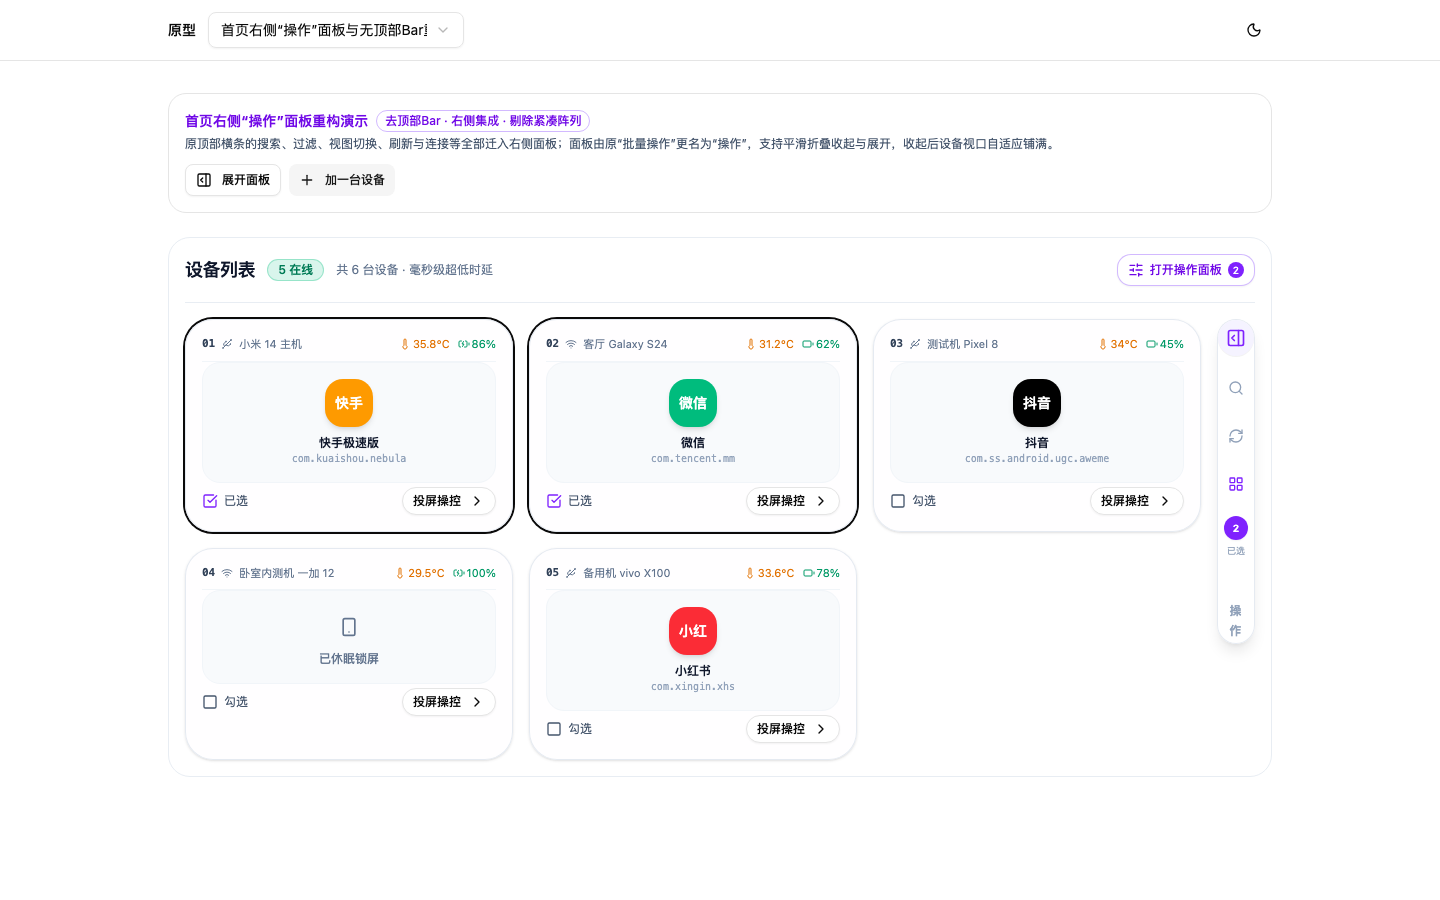
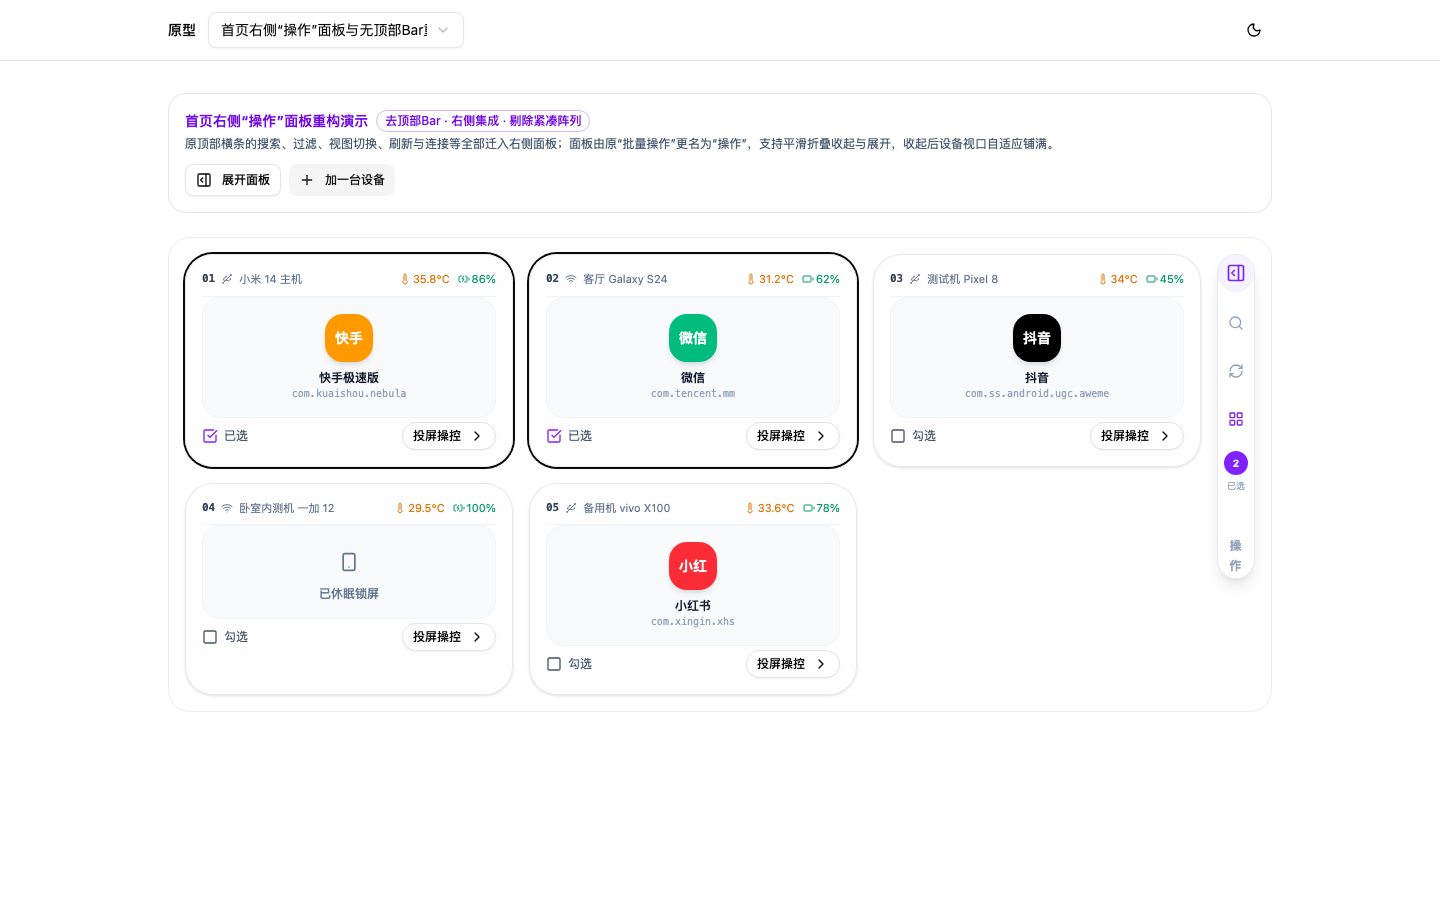
feat(原型@v1.33.0-feature): 彻底移除页面顶部Bar使设备卡片顶格对齐并刷新实拍截图

diff --git a/prototypes/cases/home-action-panel-v1/Prototype.vue b/prototypes/cases/home-action-panel-v1/Prototype.vue
@@ -314,39 +314,10 @@ function getAppBadgeBg(iconType: string) {
       </div>
     </div>
 
-    <!-- 真实首页模拟主容器（左右分栏结构） -->
+    <!-- 真实首页模拟主容器（左右分栏结构：完全移除顶部Bar，视野极度纯净） -->
     <div class="relative min-h-[750px] rounded-3xl border border-slate-200/80 bg-slate-100/60 p-4 dark:border-white/10 dark:bg-black/40 overflow-hidden flex flex-col">
-      <!-- 极简主顶栏（无大横条胶囊，仅保留标题与状态，视野完全开阔） -->
-      <div class="flex items-center justify-between pb-4 border-b border-slate-200/80 dark:border-white/10">
-        <div class="flex items-center gap-3">
-          <h1 class="text-lg font-bold text-slate-900 dark:text-white tracking-tight">设备列表</h1>
-          <span class="rounded-full bg-emerald-500/15 px-2.5 py-0.5 text-xs font-semibold text-emerald-700 dark:bg-emerald-500/20 dark:text-emerald-300 border border-emerald-500/30">
-            {{ onlineCount }} 在线
-          </span>
-          <span class="text-xs text-slate-500 dark:text-slate-400">
-            共 {{ totalCount }} 台设备 · 毫秒级超低时延
-          </span>
-        </div>
-
-        <!-- 当面板收起时，页面右上角提示展开快捷入口 -->
-        <div v-if="!isPanelOpen" class="flex items-center gap-2">
-          <Button
-            variant="outline"
-            size="sm"
-            class="h-8 rounded-xl text-xs gap-1.5 border-violet-500/40 text-violet-700 dark:text-violet-300 hover:bg-violet-500/10 cursor-pointer"
-            @click="isPanelOpen = true"
-          >
-            <SlidersHorizontal class="h-3.5 w-3.5" />
-            <span>打开操作面板</span>
-            <Badge v-if="selectedSerials.length > 0" class="h-4 px-1 text-[10px] bg-violet-600 text-white leading-none">
-              {{ selectedSerials.length }}
-            </Badge>
-          </Button>
-        </div>
-      </div>
-
-      <!-- 核心工作区：左侧设备卡片区 + 右侧可收起“操作”面板 -->
-      <div class="flex-1 flex items-start gap-4 pt-4 w-full min-w-0">
+      <!-- 核心工作区：直接顶格展示，左侧设备区 + 右侧可收起“操作”面板 -->
+      <div class="flex-1 flex items-start gap-4 w-full min-w-0">
         
         <!-- 左侧：设备主展示区（随右侧面板收起自动扩展宽度） -->
         <main class="flex-1 min-w-0 transition-all duration-300">
